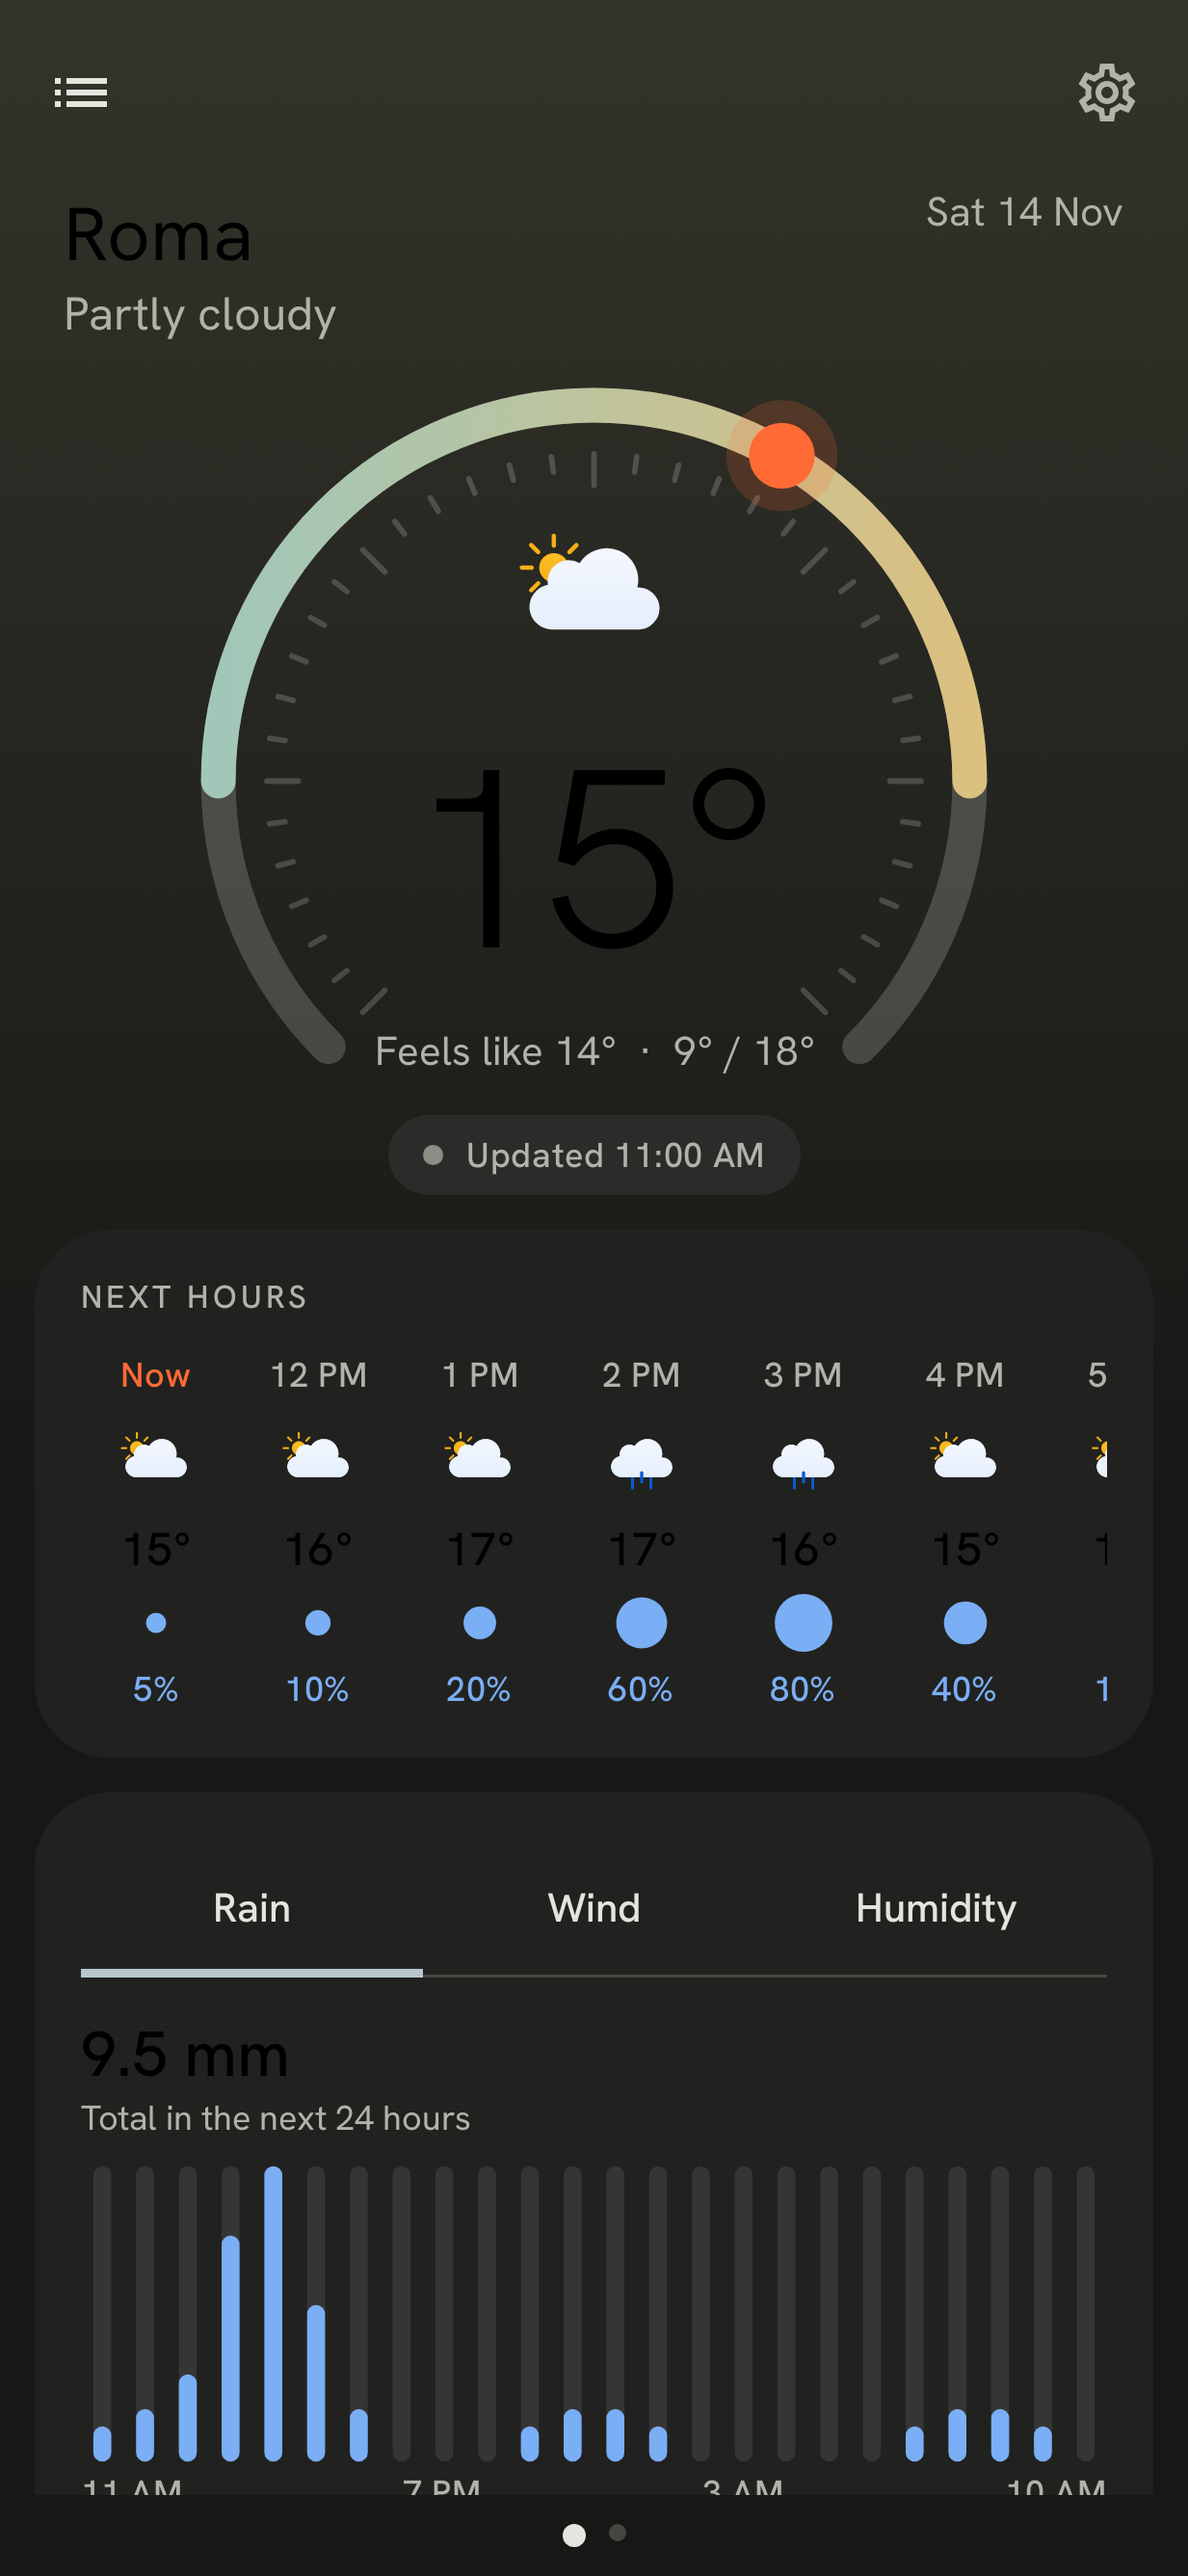
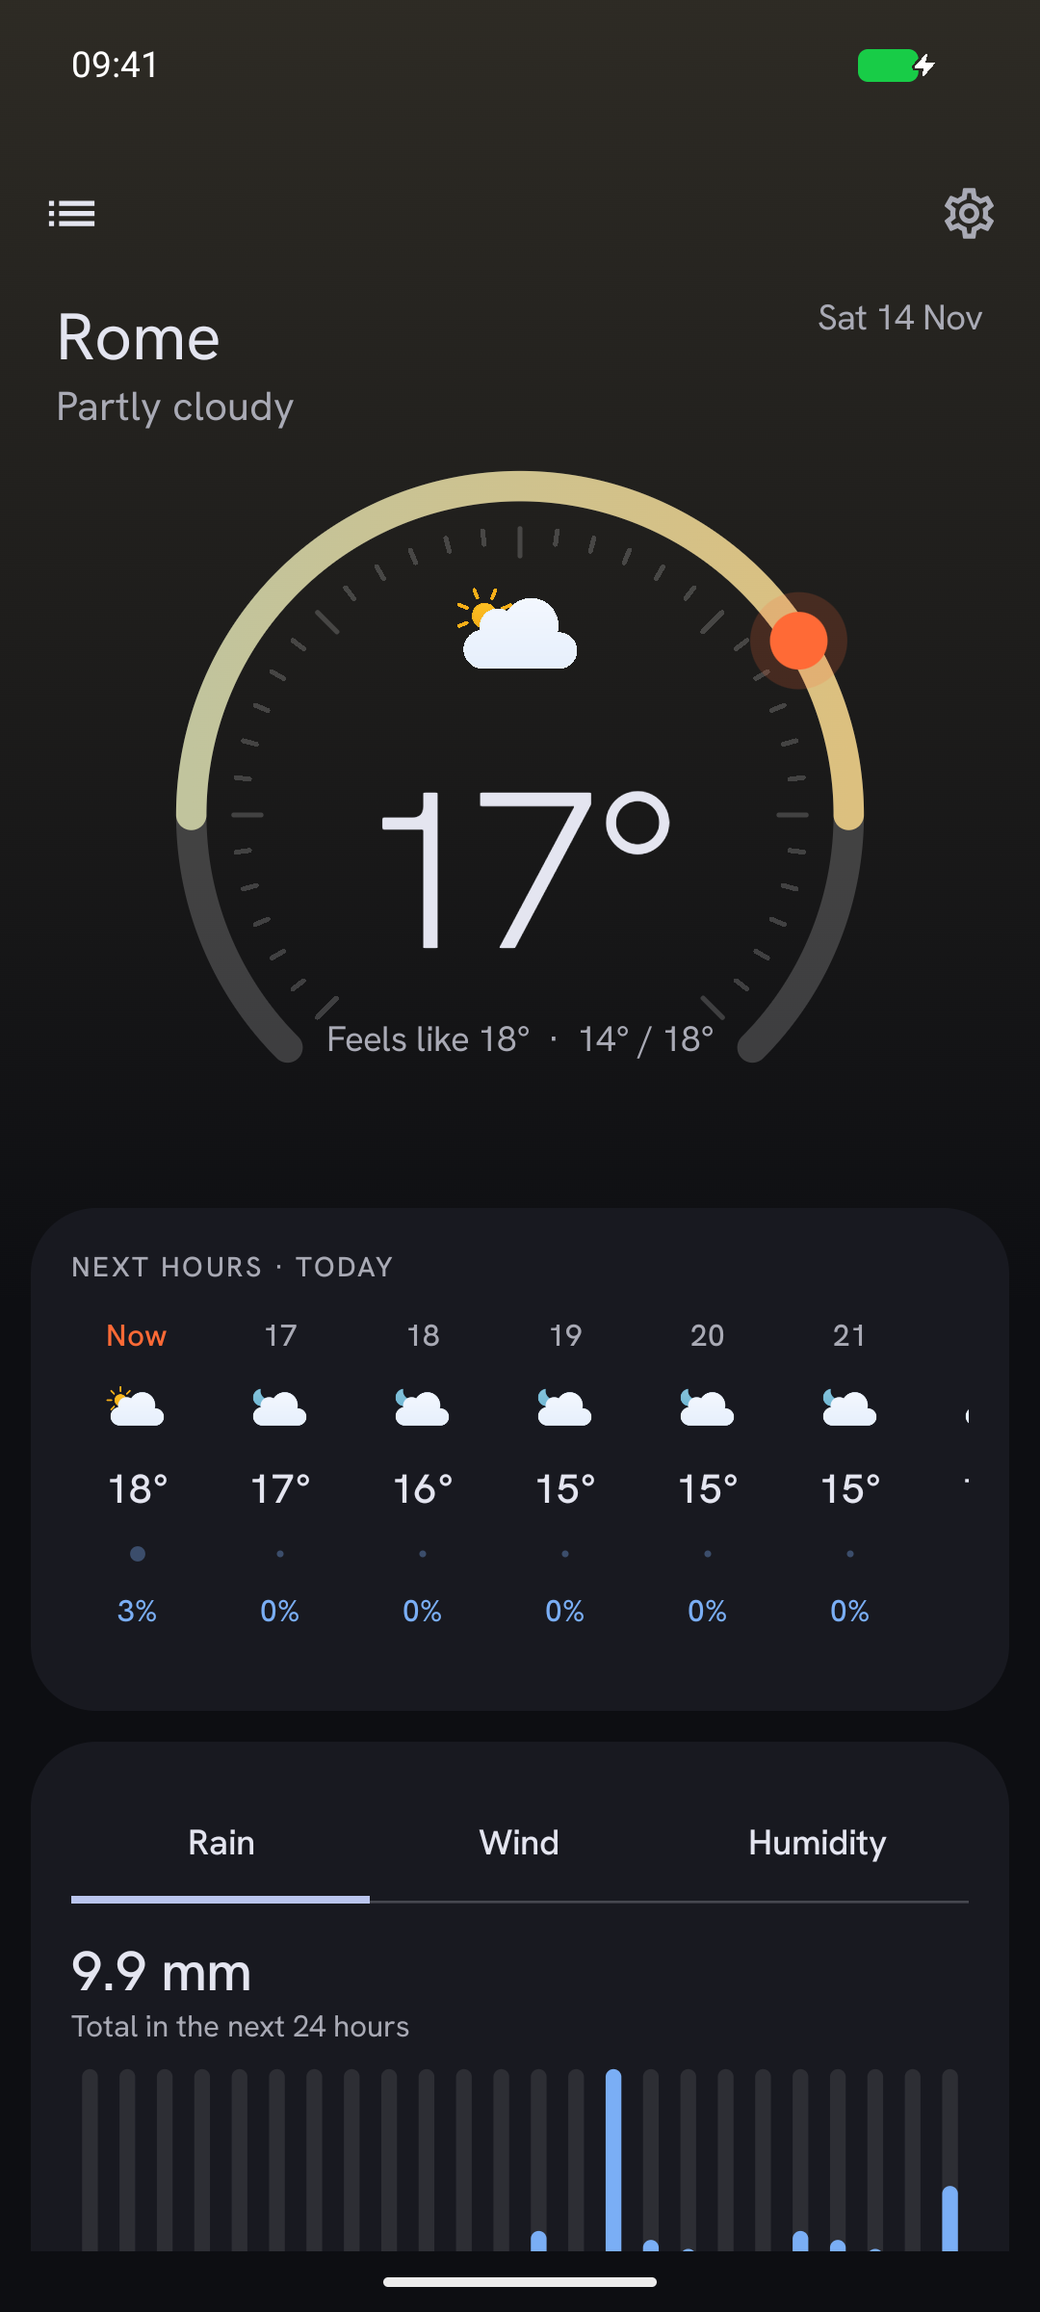
docs: refresh README screenshots from signed v0.1.0

diff --git a/README.md b/README.md
@@ -21,8 +21,9 @@ Forecasts come from Open-Meteo, with no account or API key required. The codebas
 The app uses Material You colours and adapts to phones, tablets and foldable screens.
 
 <p align="center">
-  <img src="docs/screenshots/home-light.png" width="260" alt="Ameki in light theme, showing the temperature dial and hourly forecast">
-  <img src="docs/screenshots/home-dark.png" width="260" alt="Ameki in dark theme, showing the temperature dial and hourly forecast">
+  <img src="docs/screenshots/home-light.png" width="230" alt="Ameki in light theme, showing the temperature dial and hourly forecast">
+  <img src="docs/screenshots/home-dark.png" width="230" alt="Ameki in dark theme, showing the temperature dial and hourly forecast">
+  <img src="docs/screenshots/day-detail.png" width="230" alt="A day forecast with hourly temperatures, rain probability and wind">
 </p>
 
 ## Features
@@ -47,7 +48,7 @@ Each widget adapts to its size. Choose a place, wallpaper colours, a dark or tra
 | Complete | Current weather with hourly and daily forecasts |
 | Rain | Precipitation for the next two hours in 15-minute steps, where available |
 
-<p align="center"><img src="docs/screenshots/widgets-fold.png" width="540" alt="Hourly and Complete widgets on a foldable home screen"></p>
+<p align="center"><img src="docs/screenshots/widget-compact.png" width="320" alt="The Compact widget showing current conditions and the daily temperature range"></p>
 
 Widgets read from a shared local cache. One WorkManager job refreshes the data for the app and widgets, with a default interval of 30 minutes. Open-Meteo builds let you choose from 15 to 180 minutes. Android may defer background work to save battery.
 
